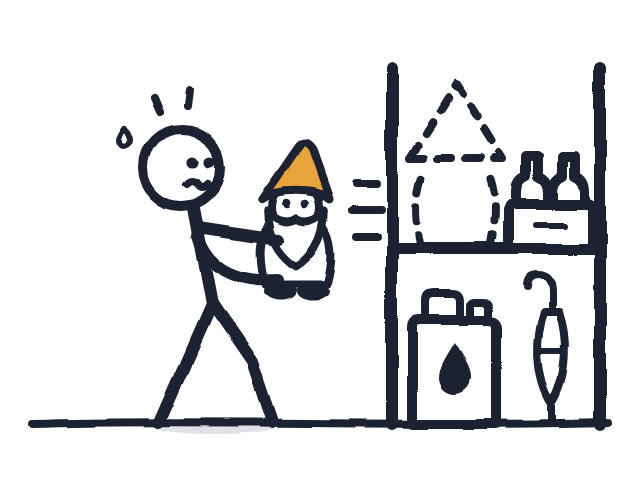
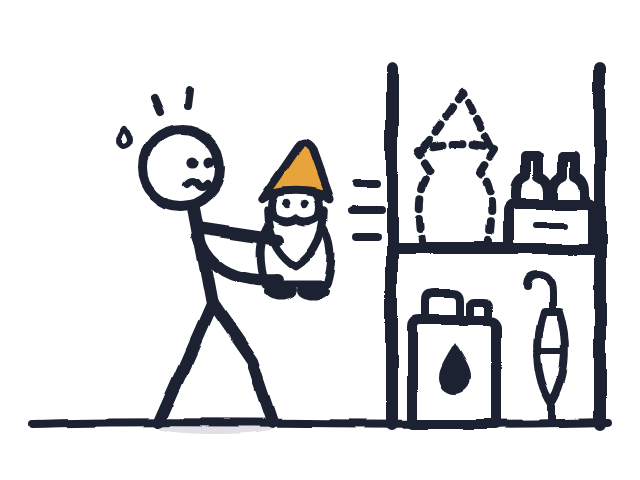
feat(cards): ship the Delivery-by-meaning card, set A the gnome to the garden (#60)
The engineer chose set A (2026-10-14, chat). Before shipping, the critic's last small
points (agent, recorded in docs/ui-decisions.md): frame 1's dashed gap on the shelf is the
gnome's own outline at its size, frame 3's bush is a small tree with a trunk, frame 4's
resting figure has a plain smiling face in profile instead of sunglasses.

tools/card-art/render.js renders the four frames as delivery-meaning-1..4.png (task
delivery) beside the round-2 colour frames delivery-1..4.png, which keep their bytes and
are now tagged task colour_delivery (the game's ids per the Delivery-by-meaning ADR, DE15).
The token build copies them into dist/pack/cards/ and lists them in the pack's assets.

Changed region(s): [[0.625, 0.1562, 0.8125, 0.5]]

diff --git a/tools/card-art/render.js b/tools/card-art/render.js
@@ -5,8 +5,10 @@
 //   node tools/card-art/render.js          render every card of CARDS into pages/card-art/png/ and write renders.json
 //   node tools/card-art/render.js --check  no Edge: exit 1 when a PNG or renders.json is out of date with its SVG
 //
-// The game has one task type, Delivery, so only its four panels ship. Switches is a sample card of the card-art pages,
-// not a game task: its SVGs stay in pages/ and are never rendered here.
+// Two Delivery cards ship (prime-game's Delivery-by-meaning ADR, DE15): the House's Delivery by meaning (task id
+// `delivery`, round 3 set A, the gnome to the garden, chosen on prime-game-ui#60) as delivery-meaning-1..4, and the
+// greybox's colour Delivery (task id `colour_delivery`, the round-2 panels) as delivery-1..4, which keep their names.
+// Switches is a sample card of the card-art pages, not a game task: its SVGs stay in pages/ and are never rendered here.
 //
 // How: one headless Edge (tools/screens/edge.js) with a 320x240 viewport at device scale 2 and a transparent default
 // background loads a page holding only the SVG as an <img>, and captures the viewport: a 640x480 RGBA PNG whose
@@ -28,9 +30,13 @@ const MANIFEST = `${OUT}/renders.json`;
 const W = 320;
 const H = 240;
 const SCALE = 2;
-const SRC = "pages/card-art/round-2/clean-sketch";
-// the Delivery card: frame 4 shows the finish (ToyHowtoFrameDone)
-const CARDS = [1, 2, 3, 4].map((i) => ({ png: `delivery-${i}.png`, source: `${SRC}/delivery-${i}.svg`, task: "delivery", frame: i }));
+const COLOUR = "pages/card-art/round-2/clean-sketch";
+const MEANING = "pages/card-art/round-3/a";
+// each card's frame 4 shows the finish (ToyHowtoFrameDone)
+const CARDS = [
+  ...[1, 2, 3, 4].map((i) => ({ png: `delivery-${i}.png`, source: `${COLOUR}/delivery-${i}.svg`, task: "colour_delivery", frame: i })),
+  ...[1, 2, 3, 4].map((i) => ({ png: `delivery-meaning-${i}.png`, source: `${MEANING}/delivery-meaning-${i}.svg`, task: "delivery", frame: i })),
+];
 
 const abs = (rel) => path.join(ROOT, ...rel.split("/"));
 const sha256 = (buf) => crypto.createHash("sha256").update(buf).digest("hex");
@@ -71,7 +77,7 @@ function readPng(buf) {
 function manifestText(entries) {
   const lines = entries.map((e) => "    " + JSON.stringify(e));
   return "{\n"
-    + `  "about": ${JSON.stringify(`The how-to card art the pack ships, rendered by tools/card-art/render.js from the clean-sketch SVGs at ${SCALE}x (${W * SCALE}x${H * SCALE}, transparent background). source_sha256 is the SVG's LF text, png_sha256 the PNG's bytes; tools/tokens/cards.js copies each PNG into dist/pack/cards/ and refuses one whose SVG changed since.`)},\n`
+    + `  "about": ${JSON.stringify(`The how-to card art the pack ships, rendered by tools/card-art/render.js from the clean-sketch SVGs (round 2's colour Delivery, round 3's Delivery by meaning) at ${SCALE}x (${W * SCALE}x${H * SCALE}, transparent background). source_sha256 is the SVG's LF text, png_sha256 the PNG's bytes; tools/tokens/cards.js copies each PNG into dist/pack/cards/ and refuses one whose SVG changed since.`)},\n`
     + `  "renders": [\n${lines.join(",\n")}\n  ]\n}\n`;
 }
 

diff --git a/tools/tokens/test/run.js b/tools/tokens/test/run.js
@@ -293,10 +293,17 @@ if (fs.existsSync(path.join(ROOT, 'tokens', 'prime.resolver.json'))) {
       'tokens/: every icon in dist/pack/icons has one assets entry', `${iconAssets.length} icon assets, ${files.length} icons`);
     const cards = Object.keys(sys.outputs).filter((k) => /^dist\/pack\/cards\/.+\.png$/.test(k));
     const cardAssets = sys.pack.assets.filter((a) => a.kind === 'card-art');
-    check(cards.length === 4 && cardAssets.length === 4 && cards.every((k) => Buffer.isBuffer(sys.outputs[k]) && assets.has(k.slice('dist/pack/'.length)))
-      && cardAssets.every((a) => a.task === 'delivery' && a.licence === 'own work' && a.size[0] === 640 && a.size[1] === 480)
-      && cardAssets.filter((a) => a.done).map((a) => a.frame).join() === '4' && !cards.some((k) => /switches/.test(k)),
-    'tokens/: the Delivery card art ships as four 640x480 PNGs, frame 4 done, no Switches', JSON.stringify(cardAssets));
+    // two Delivery cards (ui-0.8.0): the House's by meaning (task delivery, delivery-meaning-1..4), the greybox's colour
+    // Delivery (task colour_delivery, delivery-1..4)
+    const cardOf = (task, stem) => {
+      const of = cardAssets.filter((a) => a.task === task);
+      return of.length === 4 && of.map((a) => a.path).join() === [1, 2, 3, 4].map((i) => `cards/${stem}-${i}.png`).join()
+        && of.filter((a) => a.done).map((a) => a.frame).join() === '4';
+    };
+    check(cards.length === 8 && cardAssets.length === 8 && cards.every((k) => Buffer.isBuffer(sys.outputs[k]) && assets.has(k.slice('dist/pack/'.length)))
+      && cardAssets.every((a) => a.licence === 'own work' && a.size[0] === 640 && a.size[1] === 480)
+      && cardOf('delivery', 'delivery-meaning') && cardOf('colour_delivery', 'delivery') && !cards.some((k) => /switches/.test(k)),
+    'tokens/: the two Delivery cards ship as four 640x480 PNGs each (by meaning: delivery, colour: colour_delivery), frame 4 done, no Switches', JSON.stringify(cardAssets));
     const fontAssets = sys.pack.assets.filter((a) => a.kind === 'font');
     const ttf = sys.outputs['dist/pack/fonts/Comfortaa-VariableFont_wght.ttf'];
     check(fontAssets.length === 1 && fontAssets[0].family === 'Comfortaa' && fontAssets[0].licence === 'OFL-1.1' && fontAssets[0].weights.join() === '600,700'

diff --git a/pages/card-art/round-3/round-3.html b/pages/card-art/round-3/round-3.html
@@ -78,7 +78,8 @@ p { margin: 0; }
     </div>
   </section>
 
-  <p class="note">Після вибору я дрібно доведу обраний набір (зауваження критика), покладу кадри в пак як <code>cards/delivery-meaning-1..4.png</code> і випущу реліз UI. Старі кольорові кадри лишаються для сірої тестової мапи.</p>
+  <p class="note"><strong>Обрано A</strong> (14.10.2026). Доведено: у кадрі 1 пунктир на полиці тепер має форму і розмір самого гнома; у кадрі 3 кущ став деревцем зі стовбуром; у кадрі 4 у фігури під парасолею просте усміхнене обличчя замість окулярів. Кадри A вище вже доведені.</p>
+  <p class="note">Кадри A лягають у пак як <code>cards/delivery-meaning-1..4.png</code> у релізі UI 0.8.0. Старі кольорові кадри лишаються для сірої тестової мапи.</p>
 </main>
 </body>
 </html>

diff --git a/tools/tokens/cards.js b/tools/tokens/cards.js
@@ -3,7 +3,8 @@
 //
 //   cards/<name>.png       the PNGs tools/card-art/render.js renders from the chosen clean-sketch panels (2x, 640x480,
 //                          transparent), listed in pages/card-art/png/renders.json; copied byte for byte.
-//   cards/LICENCES.json    the licence record of each PNG's SVG (pages/card-art/round-2/clean-sketch/LICENCES.json).
+//   cards/LICENCES.json    the licence record of each PNG's SVG (the LICENCES.json beside it: pages/card-art/round-2/
+//                          clean-sketch/ for the colour Delivery, pages/card-art/round-3/a/ for Delivery by meaning).
 //
 // The PNGs are rendered with Edge, which CI does not have, so the build does not render: it refuses a PNG whose bytes or
 // whose SVG changed since renders.json was written (run node tools/card-art/render.js), and an SVG without an allowed

diff --git a/tokens/README.md b/tokens/README.md
@@ -208,16 +208,19 @@ deprecated itself. The pack marks both (below).
 `ToyHowtoCaption` is deprecated. The art ships beside the pack as PNG, because the chosen clean-sketch line is an SVG
 filter Godot's SVG importer does not draw:
 
-- `tools/card-art/render.js` (local, headless Edge) renders the Delivery panels of
-  `pages/card-art/round-2/clean-sketch/` at 2x (640×480, transparent background) into `pages/card-art/png/` and records
-  each PNG's and SVG's sha256 in `renders.json`; `--check` (a step of `tools/check.js`) needs no Edge.
+- `tools/card-art/render.js` (local, headless Edge) renders the Delivery panels at 2x (640×480, transparent
+  background) into `pages/card-art/png/` and records each PNG's and SVG's sha256 in `renders.json`; `--check` (a step
+  of `tools/check.js`) needs no Edge. Two Delivery cards ship since ui-0.8.0: `delivery-1..4.png` from
+  `pages/card-art/round-2/clean-sketch/` (the greybox's colour Delivery, task `colour_delivery`; `delivery` until
+  ui-0.7.0) and `delivery-meaning-1..4.png` from `pages/card-art/round-3/a/` (the House's Delivery by meaning, task
+  `delivery`).
 - The token build (`tools/tokens/cards.js`) copies them byte for byte into `dist/pack/cards/` with `cards/LICENCES.json`,
   and refuses (B03) a PNG whose SVG changed since it was rendered. Switches is a sample card of the pages, not a game
   task: it is not rendered and not shipped.
 - **`assets`** gains one entry per PNG, sorted by path with the icons:
   `{ "path": "cards/delivery-1.png", "kind": "card-art", "sha256": "…", "licence": "own work", "licence_file":
   "cards/LICENCES.json", "source": "pages/card-art/round-2/clean-sketch/delivery-1.svg", "size": [640, 480], "task":
-  "delivery", "frame": 1 }`; the last frame of a task also has `"done": true` (drawn in `ToyHowtoFrameDone`). The
+  "colour_delivery", "frame": 1 }`; the last frame of a task also has `"done": true` (drawn in `ToyHowtoFrameDone`). The
   game imports them as Texture2D (Lossless, mipmaps on), never tinted, in a TextureRect with `EXPAND_IGNORE_SIZE` and
   `STRETCH_KEEP_ASPECT_CENTERED`.
 

diff --git a/docs/ui-decisions.md b/docs/ui-decisions.md
@@ -55,6 +55,18 @@ trust rules in `CLAUDE.md` (small and easy to change); the engineer can veto it 
   - the same figure and view in every panel;
   - a room's pictogram is the same glyph on the package, the map and the door plate;
   - the art ships to the game as PNG at 2× (it uses browser SVG filters).
+- **The House's Delivery by meaning card is set A, the gnome to the garden** (the engineer, 2026-10-14, chat,
+  [prime-game-ui#60](https://github.com/xperiaroco2/prime-game-ui/issues/60)): take the gnome off the storage shelf,
+  picture it among flowers, set it down in the garden's bed; the finish frame's gag is the figure resting under the
+  terrace parasol. Sources `pages/card-art/round-3/a/`, shipped as `dist/pack/cards/delivery-meaning-1.png` to
+  `delivery-meaning-4.png` (task `delivery`); the round-2 colour frames `delivery-1..4.png` stay for the greybox's
+  `colour_delivery`. The critic's last small points, polished before shipping (agent):
+  - frame 1: the dashed gap the gnome left on the shelf is the gnome's own outline at its size (boots, coat, hat brim,
+    cone), not a larger arch with a triangle that read as a house;
+  - frame 3: the round bush is a small garden tree with a trunk on the ground and a taller crown, so at 160×120 it no
+    longer reads as a cloud and the scene's top is less empty;
+  - frame 4: the resting figure in the background has a plain smiling face in profile (one eye, a smile) instead of
+    sunglasses, which merged into one dark blob at 160×120.
 - **Loading-screen tips** are funny.
 - **A "with hints" host setting** (markers through walls, highlights) is dropped for now: a future idea, only if real
   maps prove too hard.
